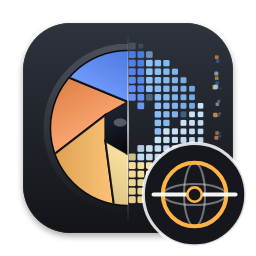
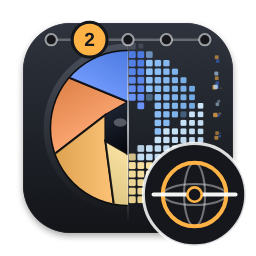
Icone dei nodi: timeline con il posto nella catena (Noise, Stabilize, Motion Blur, Log MetaRaw, Detail)
Claude-Session: https://claude.ai/code/session_01AVhvvNdH8ToKqDNtcX8HHQ

Changed region(s): [[0.1562, 0.0625, 0.8438, 0.25]]

diff --git a/tools/make_icons.swift b/tools/make_icons.swift
@@ -2,7 +2,7 @@
 // Draws the Log MetaRaw icons (installer, disk image, SLogMetaRaw OpenFX effect).
 // Usage: swift tools/make_icons.swift <output dir>
 // Writes icon_1024.png (app/installer icon), effect_256.png, detail_256.png, stabilize_256.png and
-// motionblur_256.png (OpenFX node icons).
+// motionblur_256.png (OpenFX node icons, with their place in the node chain).
 import AppKit
 
 func color(_ hex: UInt32, _ alpha: CGFloat = 1) -> NSColor {
@@ -283,15 +283,54 @@ func drawMotionBlurIcon(size s: CGFloat) -> NSBitmapImageRep {
     }
 }
 
+// Where the node goes in the chain: Noise 1, Stabilize 2, Motion Blur 3, Log MetaRaw 4, Detail 5.
+// Five pips along the top of the tile; the node's own step is an orange chip with its number.
+let chainSteps = 5
+func drawStep(_ step: Int, on rep: NSBitmapImageRep) -> NSBitmapImageRep {
+    let s = CGFloat(rep.pixelsWide)
+    NSGraphicsContext.saveGraphicsState()
+    NSGraphicsContext.current = NSGraphicsContext(bitmapImageRep: rep)
+    let y = s * 0.845, x0 = s * 0.2, dx = s * 0.6 / CGFloat(chainSteps - 1)
+    let line = NSBezierPath()
+    line.move(to: CGPoint(x: x0, y: y))
+    line.line(to: CGPoint(x: x0 + dx * CGFloat(chainSteps - 1), y: y))
+    line.lineWidth = s * 0.01
+    line.lineCapStyle = .round
+    color(0xFFFFFF, 0.28).setStroke()
+    line.stroke()
+    for i in 1...chainSteps where i != step {
+        let x = x0 + dx * CGFloat(i - 1), r = s * 0.022
+        let pip = NSBezierPath(ovalIn: CGRect(x: x - r, y: y - r, width: 2 * r, height: 2 * r))
+        color(0x15171C).setFill()
+        pip.fill()
+        pip.lineWidth = s * 0.008
+        color(0xFFFFFF, 0.55).setStroke()
+        pip.stroke()
+    }
+    let x = x0 + dx * CGFloat(step - 1), r = s * 0.068
+    let chip = NSBezierPath(ovalIn: CGRect(x: x - r, y: y - r, width: 2 * r, height: 2 * r))
+    color(0xFFB347).setFill()
+    chip.fill()
+    chip.lineWidth = s * 0.012
+    color(0x15171C).setStroke()
+    chip.stroke()
+    let digit = NSAttributedString(string: String(step), attributes: [
+        .font: NSFont.systemFont(ofSize: r * 1.1, weight: .heavy), .foregroundColor: color(0x15171C)])
+    let size = digit.size()
+    digit.draw(at: CGPoint(x: x - size.width / 2, y: y - size.height / 2))
+    NSGraphicsContext.restoreGraphicsState()
+    return rep
+}
+
 let out = CommandLine.arguments.count > 1 ? CommandLine.arguments[1] : "."
 try! drawIcon(size: 1024).representation(using: .png, properties: [:])!
     .write(to: URL(fileURLWithPath: out + "/icon_1024.png"))
-try! drawIcon(size: 256).representation(using: .png, properties: [:])!
+try! drawStep(4, on: drawIcon(size: 256)).representation(using: .png, properties: [:])!
     .write(to: URL(fileURLWithPath: out + "/effect_256.png"))
-try! drawDetailIcon(size: 256).representation(using: .png, properties: [:])!
+try! drawStep(5, on: drawDetailIcon(size: 256)).representation(using: .png, properties: [:])!
     .write(to: URL(fileURLWithPath: out + "/detail_256.png"))
-try! drawStabilizeIcon(size: 256).representation(using: .png, properties: [:])!
+try! drawStep(2, on: drawStabilizeIcon(size: 256)).representation(using: .png, properties: [:])!
     .write(to: URL(fileURLWithPath: out + "/stabilize_256.png"))
-try! drawMotionBlurIcon(size: 256).representation(using: .png, properties: [:])!
+try! drawStep(3, on: drawMotionBlurIcon(size: 256)).representation(using: .png, properties: [:])!
     .write(to: URL(fileURLWithPath: out + "/motionblur_256.png"))
 print("icons written to \(out)")

diff --git a/RELEASE_NOTES.md b/RELEASE_NOTES.md
@@ -11,6 +11,8 @@
   Mecena ClipDB) entrano nel repository in `motion/`, e il pkg di Log MetaRaw per macOS li compila e li installa
   insieme. Stabilize e Motion Blur compaiono nella categoria OpenFX **Log MetaRaw**. Solo Mac con Apple silicon. Il
   disinstallatore toglie anche Mecena Motion e lascia il MecenaClipDB.
+- **Ordine dei nodi sulle icone**: in cima a ogni icona una timeline di 5 tappe indica dove mettere il nodo: 1 Noise,
+  2 Stabilize, 3 Motion Blur, 4 Log MetaRaw, 5 Detail.
 
 ## Log MetaRaw 3.2.1
 
